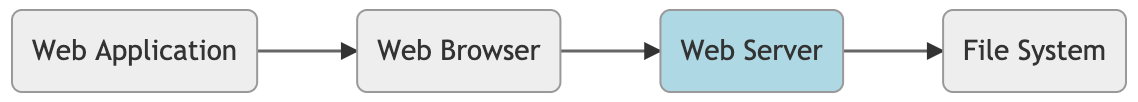
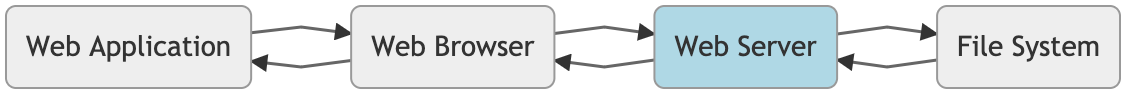
Update file system picture to indicate we are reading from it

Changed region(s): [[0.0, 0.0312, 0.9912, 0.9375], [0.8053, 0.0312, 0.9912, 0.1875], [0.8053, 0.8438, 0.9912, 0.9375]]

diff --git a/module8-tensorflow-js/README.md b/module8-tensorflow-js/README.md
@@ -99,8 +99,11 @@ fs(File System)
 style server fill:lightblue
 %%
 application --> browser
+browser --> application
 browser --> server
+server --> browser
 server --> fs
+fs --> server
 '
 
 <!-- markdownlint-enable -->
